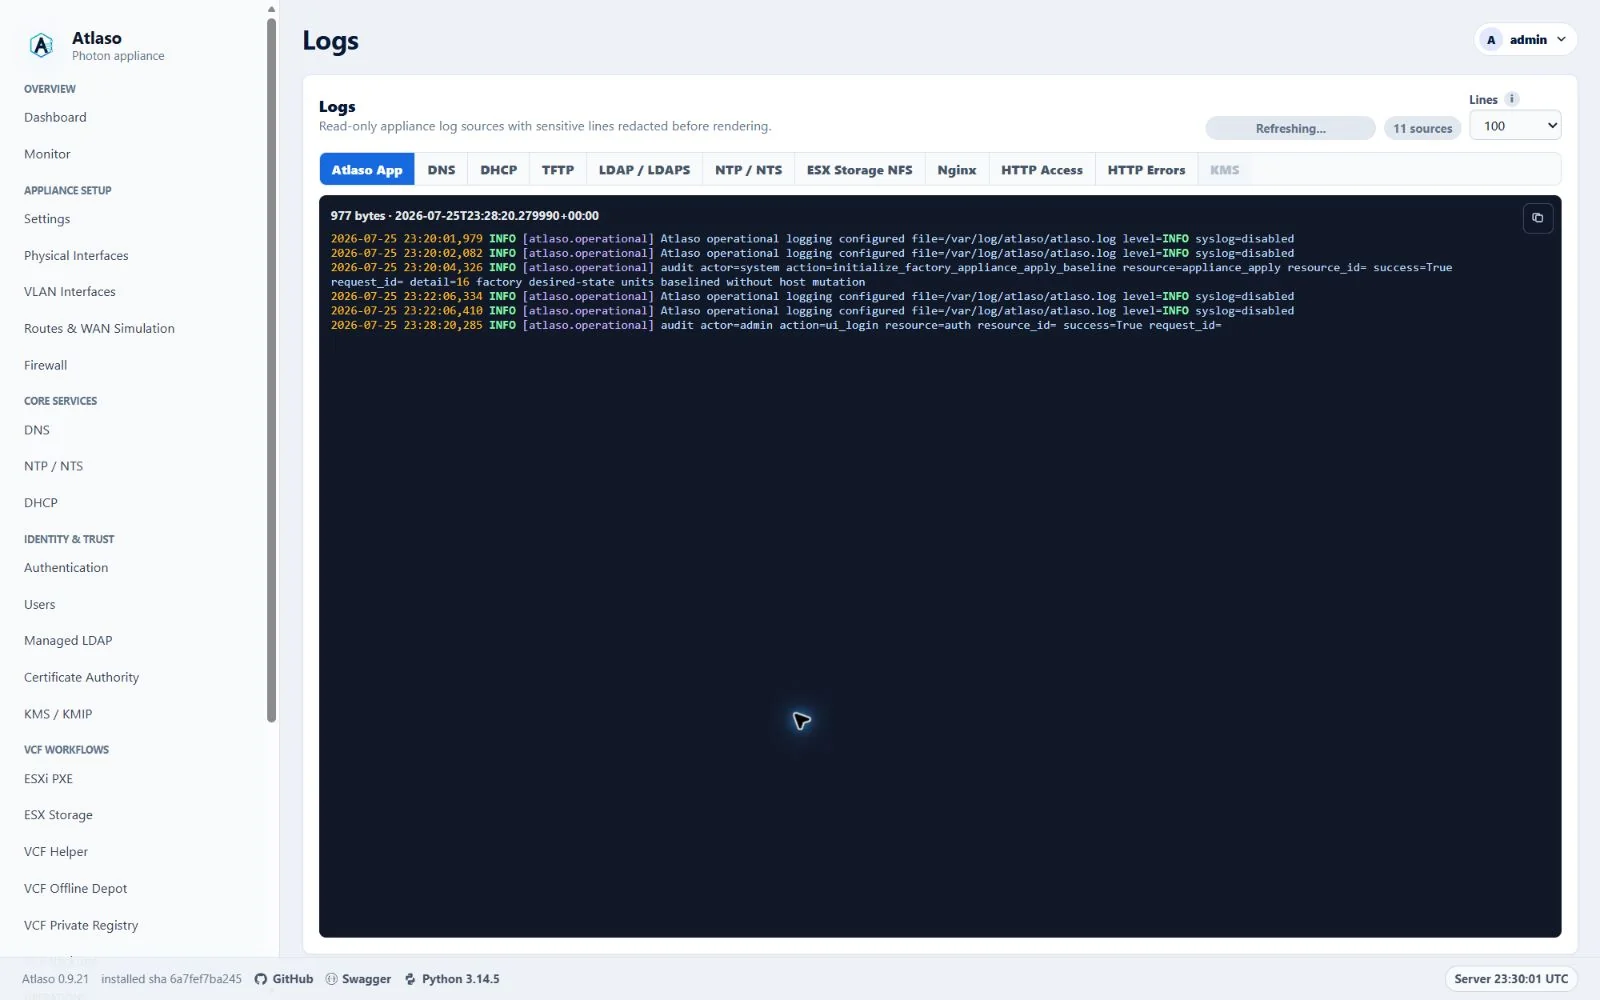
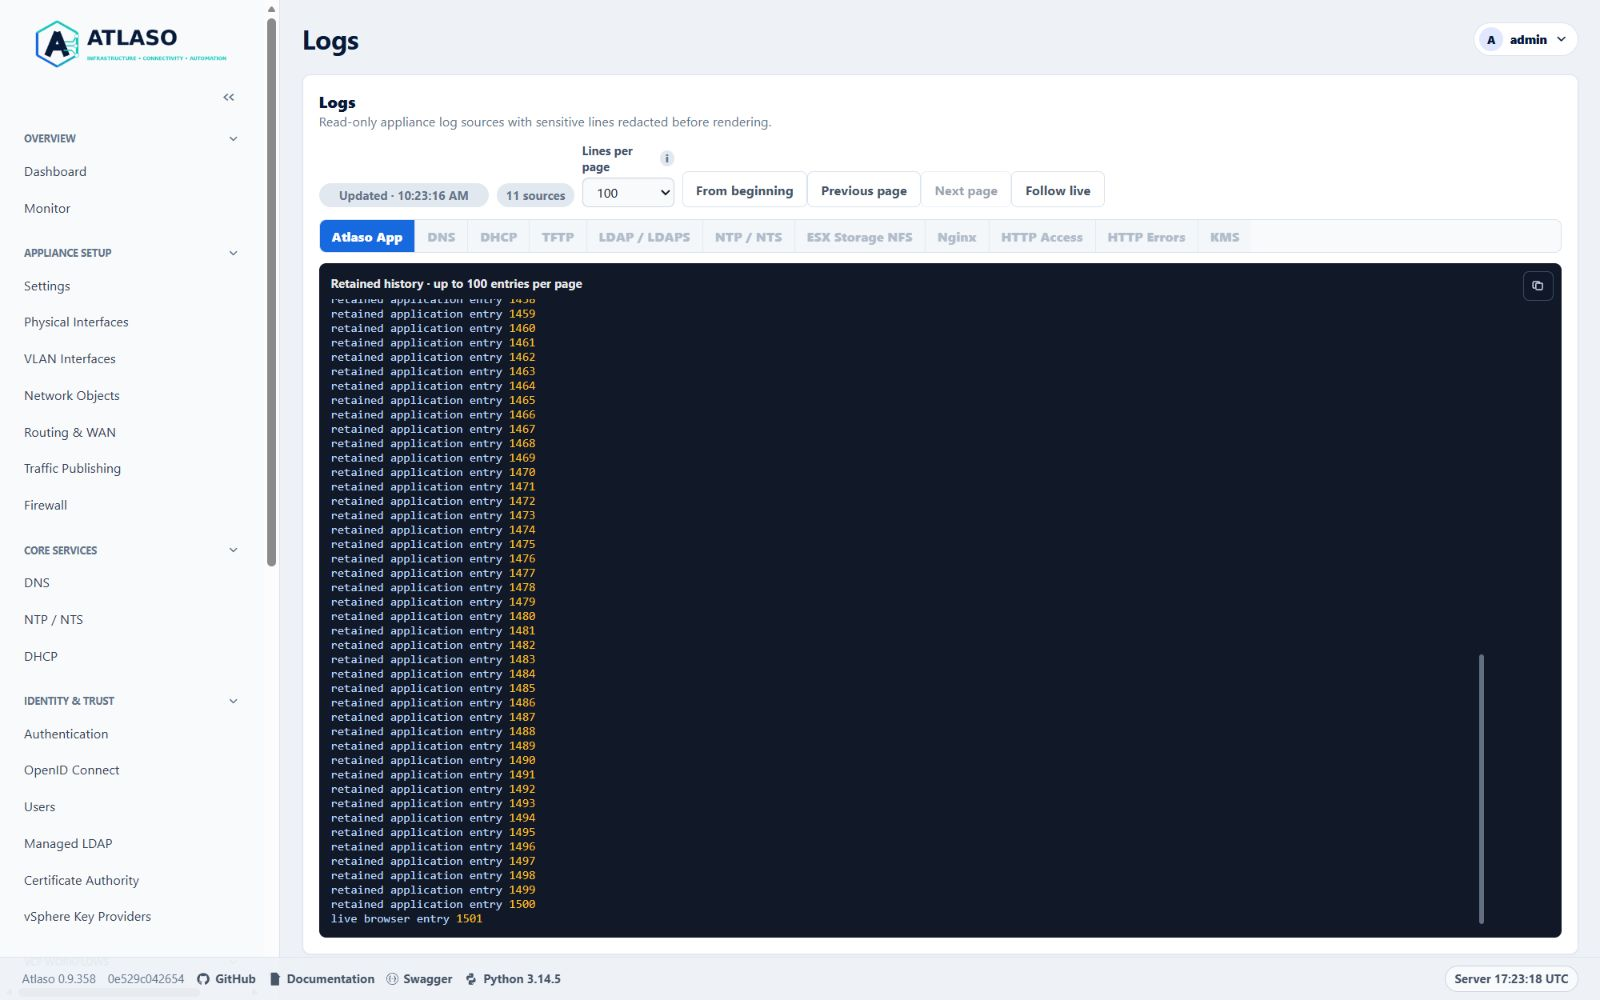
docs: refresh retained log and audit history captures

diff --git a/scripts/generate_screenshot_manifest.py b/scripts/generate_screenshot_manifest.py
@@ -20,6 +20,18 @@ CANONICAL_BROWSER_ROOTS = {
 
 CAPTURE_OVERRIDES = {
     **{
+        f"{slug}-clean-{viewport}": {
+            "source_commit": "0e529c0426542b83d145a7524c69f49bd1c2f596",
+            "atlaso_version": "0.9.358",
+            "capture_method": "edge-browser",
+            "state": "retained-history-synthetic-fixture",
+            "caption": f"{title} history controls in the {viewport} layout with synthetic test data.",
+            "alt": f"Atlaso {title} {viewport} layout showing retained-history navigation with synthetic data.",
+        }
+        for slug, title in (("logs", "Logs"), ("audit-log", "Audit Events"))
+        for viewport in ("desktop", "responsive")
+    },
+    **{
         f"traffic-publishing-{stem}": {
             "source_commit": "17771e868071812d41fcfa2c783cd646d0c44132",
             "atlaso_version": "0.9.351",

diff --git a/scripts/generate_embedded_screenshot_sections.py b/scripts/generate_embedded_screenshot_sections.py
@@ -230,7 +230,9 @@ def main() -> None:
             OVERVIEW_BEGIN,
             OVERVIEW_HEADING,
             "",
-            "This verified appliance view provides visual orientation before you begin.",
+            ("This interface capture uses synthetic test data for visual orientation."
+             if primary.get("state") == "retained-history-synthetic-fixture"
+             else "This verified appliance view provides visual orientation before you begin."),
             "",
             *figure(primary),
             OVERVIEW_END,

diff --git a/docs/operate/audit-log.md b/docs/operate/audit-log.md
@@ -15,11 +15,11 @@ intended for investigation and change review.
 <!-- BEGIN GENERATED INTERFACE OVERVIEW -->
 ## Interface overview
 
-This verified appliance view provides visual orientation before you begin.
+This interface capture uses synthetic test data for visual orientation.
 
-![Atlaso Audit Events page in the clean-appliance desktop viewport.](../assets/screenshots/audit-log-clean-desktop.webp)
+![Atlaso Audit Events desktop layout showing retained-history navigation with synthetic data.](../assets/screenshots/audit-log-clean-desktop.webp)
 
-*Figure: Audit Events in the verified clean-appliance desktop state.*
+*Figure: Audit Events history controls in the desktop layout with synthetic test data.*
 
 <!-- END GENERATED INTERFACE OVERVIEW -->
 
@@ -65,8 +65,8 @@ These captures show responsive layouts and useful operational states referenced 
 
 ### Audit events
 
-![Atlaso Audit Events page in the clean-appliance responsive viewport.](../assets/screenshots/audit-log-clean-responsive.webp)
+![Atlaso Audit Events responsive layout showing retained-history navigation with synthetic data.](../assets/screenshots/audit-log-clean-responsive.webp)
 
-*Figure: Audit Events in the verified clean-appliance responsive state.*
+*Figure: Audit Events history controls in the responsive layout with synthetic test data.*
 
 <!-- END GENERATED ADDITIONAL SCREENSHOTS -->

diff --git a/docs/operate/logs.md b/docs/operate/logs.md
@@ -15,11 +15,11 @@ source, and message before moving to a service-specific verification step.
 <!-- BEGIN GENERATED INTERFACE OVERVIEW -->
 ## Interface overview
 
-This verified appliance view provides visual orientation before you begin.
+This interface capture uses synthetic test data for visual orientation.
 
-![Atlaso Logs page in the clean-appliance desktop viewport.](../assets/screenshots/logs-clean-desktop.webp)
+![Atlaso Logs desktop layout showing retained-history navigation with synthetic data.](../assets/screenshots/logs-clean-desktop.webp)
 
-*Figure: Logs in the verified clean-appliance desktop state.*
+*Figure: Logs history controls in the desktop layout with synthetic test data.*
 
 <!-- END GENERATED INTERFACE OVERVIEW -->
 
@@ -174,8 +174,8 @@ These captures show responsive layouts and useful operational states referenced 
 
 ### Logs
 
-![Atlaso Logs page in the clean-appliance responsive viewport.](../assets/screenshots/logs-clean-responsive.webp)
+![Atlaso Logs responsive layout showing retained-history navigation with synthetic data.](../assets/screenshots/logs-clean-responsive.webp)
 
-*Figure: Logs in the verified clean-appliance responsive state.*
+*Figure: Logs history controls in the responsive layout with synthetic test data.*
 
 <!-- END GENERATED ADDITIONAL SCREENSHOTS -->
